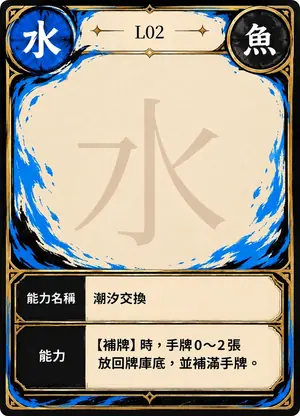
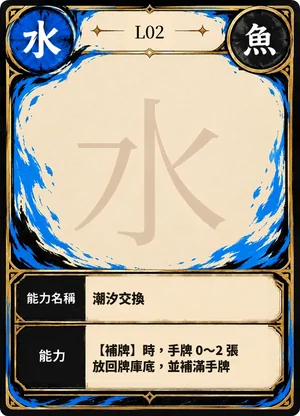
遊戲內 13 張隊長卡圖換新（新種族、目前規則文字）
- shared/cards/L01～L13.webp（600px）與 shared/cards/sm/（300px）改用 tools/leader_cards.py 產生的新卡圖
- sw.js 卡圖快取 VERSION 1→2，玩家重新整理後就會拿到新圖
- 開發協作.md 同步

Claude-Session: https://claude.ai/code/session_0113a2PjWsCfJy69PRoaBpVt

diff --git a/sw.js b/sw.js
@@ -2,7 +2,7 @@
 // 只處理 shared/cards/ 的卡圖：先給本機快取（瞬間顯示），同時在背景向伺服器確認有沒有新版，有就更新快取。
 // 換卡圖後，玩家下次進站就會看到新圖；遊戲程式（html、js）不經過這裡，更新一律即時生效。
 // 卡圖大改（例如換一整彈）時，把 VERSION 加 1，舊快取會整個清掉。
-const VERSION = 1;
+const VERSION = 2;
 const CACHE = 'summon-cards-img-v' + VERSION;
 
 self.addEventListener('install', () => self.skipWaiting());

diff --git a/docs/開發協作.md b/docs/開發協作.md
@@ -3,7 +3,7 @@
 這份文件給所有參與開發的人與 Claude 對話共用。**開工前先讀這份，改完後更新這份。**
 同一個 repo 會有不只一個對話同時在改，靠這份文件對齊理解，避免互相覆蓋。
 
-最後更新：2026-10-30（Cloudflare 雲端串接；隊長卡圖 PDF 與產生器）
+最後更新：2026-10-30（遊戲內隊長卡圖換新）
 
 ---
 
@@ -31,7 +31,7 @@
 | `cloud/` | Cloudflare Worker（`worker.js`）、D1 資料表、部署步驟（`README.md`） | 改 API 時兩邊一起改 |
 | `sw.js` | 卡圖快取（service worker） | 整彈換圖時把 `VERSION` 加 1 |
 | `docs/` | 遊戲規則 PDF（vj1030）、108 張卡圖 PDF、13 位隊長卡圖 PDF、效果總表 Excel | 舊版已刪除 |
-| `tools/leader_cards.py` | 隊長卡產生器：依 `shared/data.js` 重畫隊長卡的種族圓章與能力文字，輸出 PNG 與 A4 PDF | 隊長資料有改時重跑，把 PDF 複製到 `docs/召喚卡牌_13隊長卡圖版.pdf` |
+| `tools/leader_cards.py` | 隊長卡產生器：依 `shared/data.js` 重畫隊長卡的種族圓章與能力文字，輸出 PNG 與 A4 PDF | 隊長資料有改時重跑：PDF 複製到 `docs/`，`raw/L??.png` 轉成 `shared/cards/`（600px）與 `shared/cards/sm/`（300px）的 webp，並把 `sw.js` 的 `VERSION` 加 1 |
 
 ## 3. 效能守則（使用者最在意「越跑越慢」）
 
@@ -66,7 +66,7 @@
 - L01 被封印時：該回合沒有連勝加成，但勝負照常累積／歸零。
 - L10：直立石像 7 座，且火水草各至少 2 座獲勝。
 - 隊長 13 位目前**不動**，平衡另外討論。
-- 隊長種族（2026-10-30 改）：只用角色卡現有的 18 種種族。L01 龍、L02 魚、L03 精、L04 鳥、L05 龜、L06 妖、L07 鬼、L08 魔、L09 仙、L10 靈、L11 獸、L12 蟲、L13 人。`docs/召喚卡牌_13隊長卡圖版.pdf` 已是新種族與新文字（`tools/leader_cards.py` 產生）；**遊戲網站用的 `shared/cards/L??.webp` 還是舊卡圖**，使用者還沒決定要不要換。
+- 隊長種族（2026-10-30 改）：只用角色卡現有的 18 種種族。L01 龍、L02 魚、L03 精、L04 鳥、L05 龜、L06 妖、L07 鬼、L08 魔、L09 仙、L10 靈、L11 獸、L12 蟲、L13 人。隊長卡圖（`shared/cards/L??.webp`、`shared/cards/sm/L??.webp`、`docs/召喚卡牌_13隊長卡圖版.pdf`）都已換成新種族與目前規則文字，由 `tools/leader_cards.py` 產生；換圖時 `sw.js` 的 `VERSION` 已加到 2。
 - L12（2026-10-30 改）：屬性一律看最左一張（不管牌型），**可以被剋制**（原本「不會被剋」已取消，`engine.js` 的 `counterAdv` 與 AI 已同步）。卡面文字「雜色越強（ABC 5、AABC 6）；最左張決定屬性；無牌型時【啟動】最左 1 張」。AABC 維持 6。正式版與測試版同時生效（卡牌資料共用）。
 - 實作時的解讀（待實體測試確認）：
   - 「本回合對手不能獻祭」只能主動使用，不能當【反擊】。
